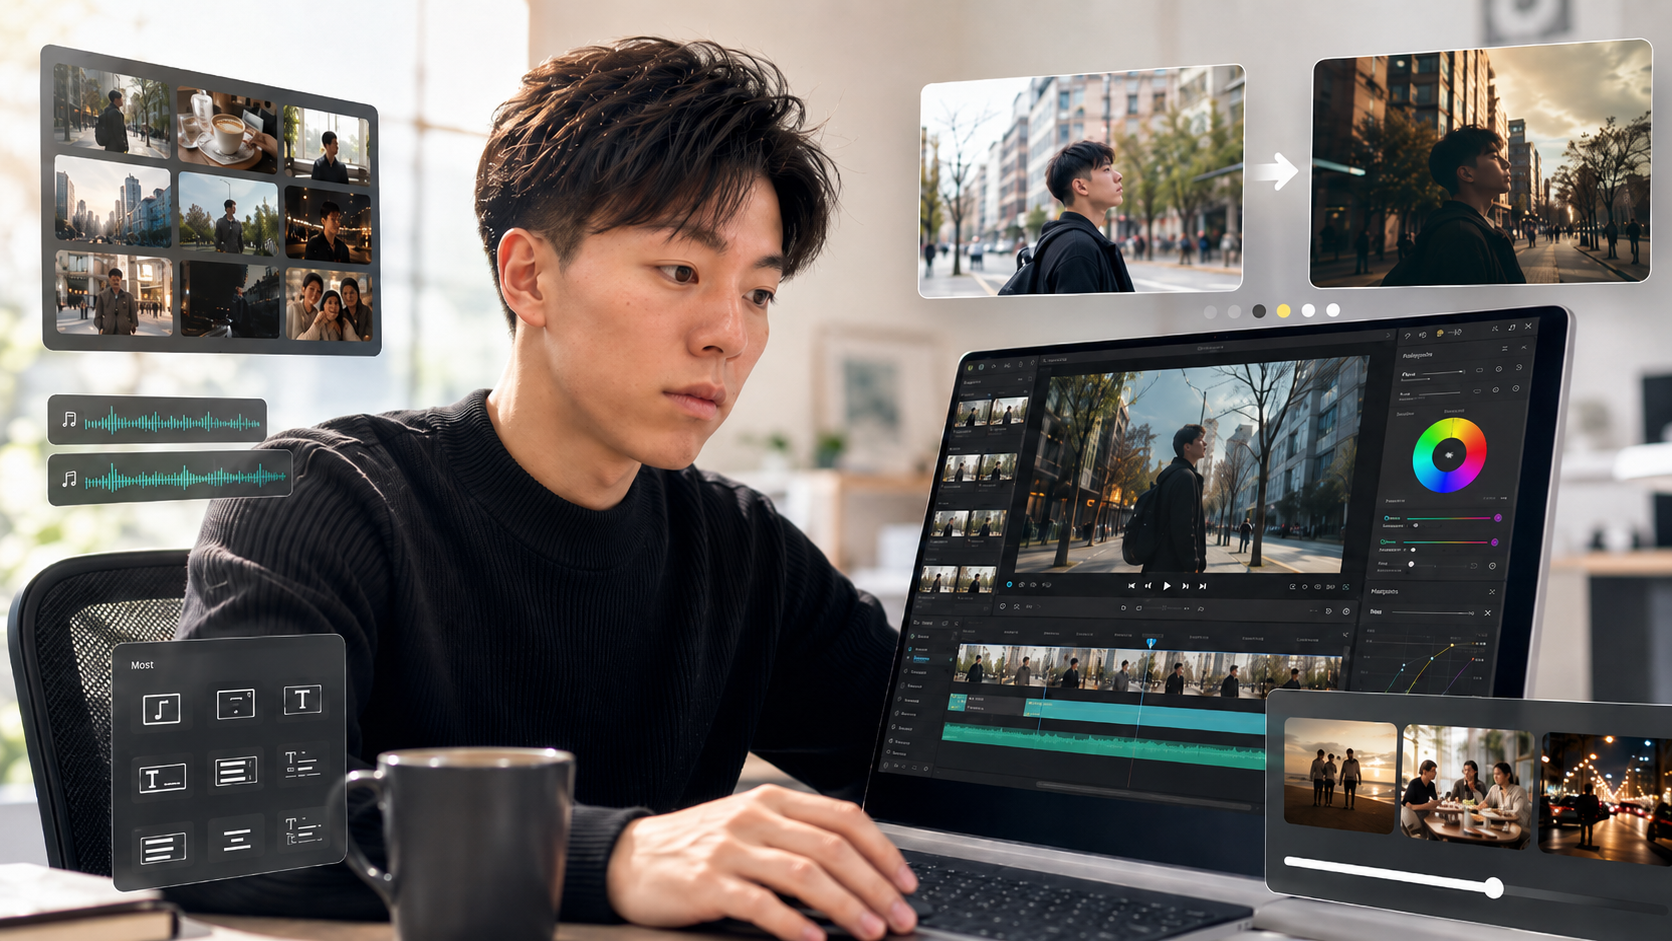
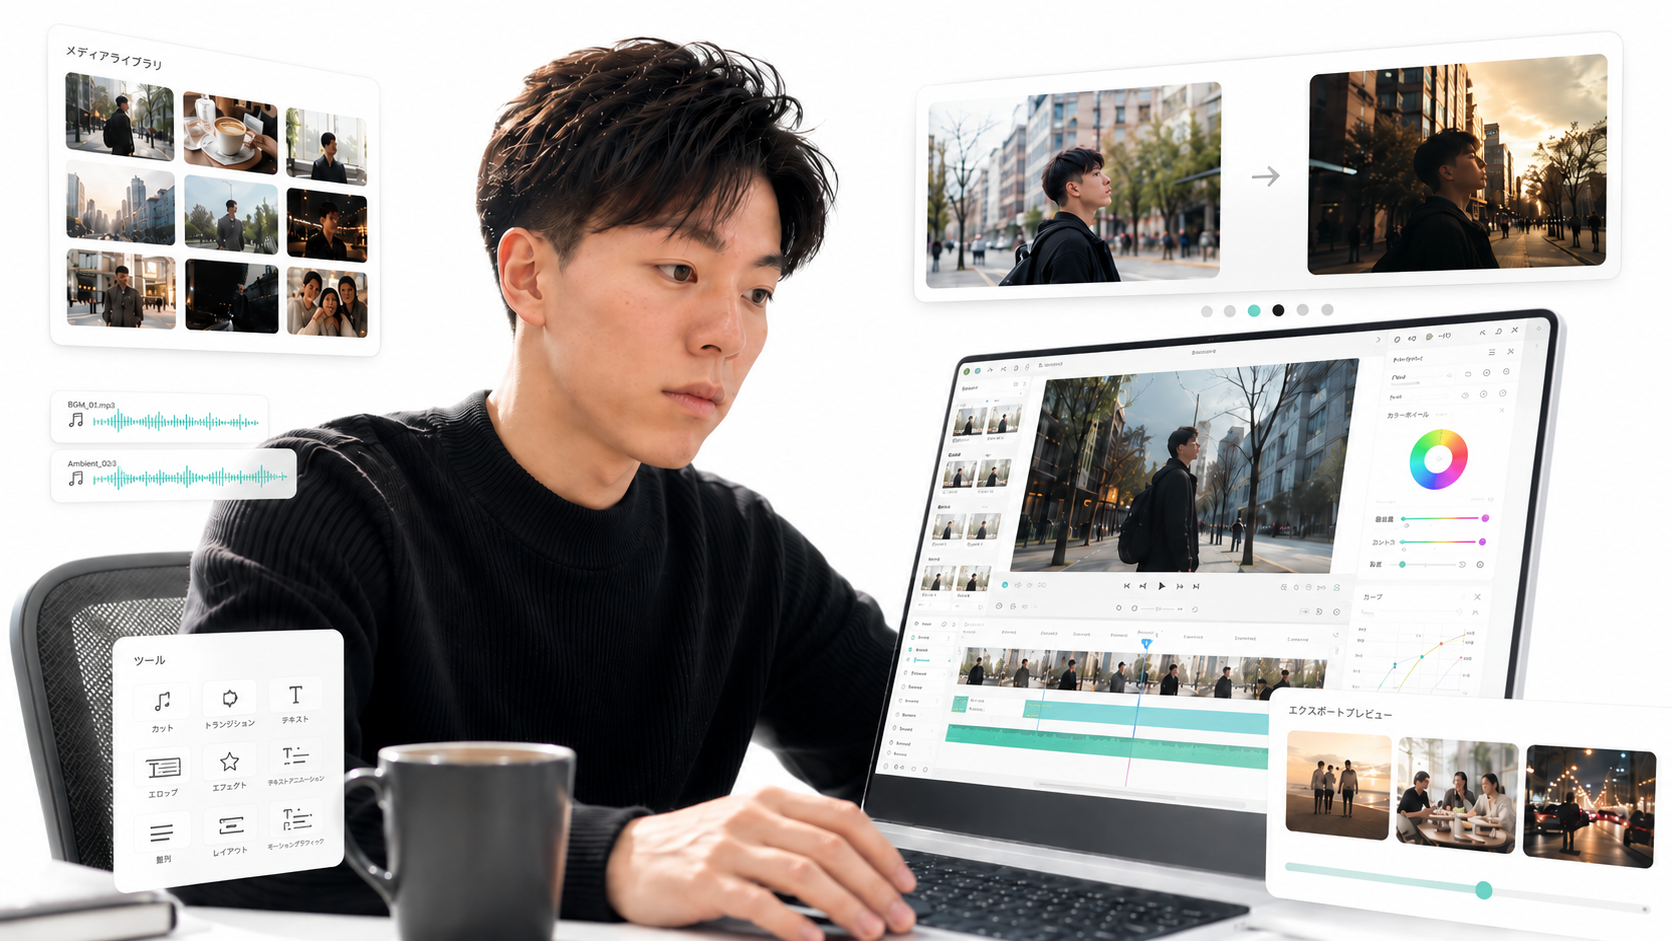
Update layout and styles for use cases section; add new images

diff --git a/index.html b/index.html
@@ -76,40 +76,46 @@
             </div>
         </section>
 
-        <section id="use-cases" class="framed-outer">
+       <section id="use-cases" class="framed-outer">
             <div class="sec-title fade-up">
                 <span class="en en-title">CREATE ANYTHING</span>
                 <h2 class="jp">どんな動画も、あなたの思いのままに。</h2>
             </div>
-            <div class="square-grid-container fade-up">
-                <div class="square-card">
-                    <img src="bp16.png" alt="日常">
-                    <div class="square-content">
+            
+            <div class="bento-grid-container fade-up">
+                
+                <div class="bento-card bento-tall">
+                    <div class="bento-content">
                         <h3>日常の記録</h3>
-                        <p>何気ない日常の動画を、<br class="pc">映画のようなワンシーンに。</p>
+                        <p>何気ない日常の動画を、映画のようなワンシーンに。</p>
                     </div>
+                    <img src="bp16.png" alt="日常" class="bento-img bento-img-bottom">
                 </div>
-                <div class="square-card">
-                    <img src="bp17.png" alt="SNS">
-                    <div class="square-content">
-                        <h3>SNSコンテンツ</h3>
-                        <p>目を引く短い動画を、<br class="pc">より速く、カンタンに。</p>
-                    </div>
-                </div>
-                <div class="square-card">
-                    <img src="bp18.png" alt="快適">
-                    <div class="square-content">
-                        <h3>軽快な編集環境</h3>
-                        <p>重いパソコン作業にさよなら。<br class="pc">サクサク動く快適な操作感を。</p>
-                    </div>
-                </div>
-                <div class="square-card">
-                    <img src="bp19.png" alt="プロ">
-                    <div class="square-content">
+
+                <div class="bento-card bento-wide">
+                    <div class="bento-content bento-content-left">
                         <h3>妥協なきプロ仕様</h3>
-                        <p>プロ向けの本格的な編集も、<br class="pc">これひとつで完結します。</p>
+                        <p>本格的な編集も、<br>これひとつで完結。</p>
                     </div>
+                    <img src="bp19.png" alt="プロ" class="bento-img bento-img-right">
                 </div>
+
+                <div class="bento-card">
+                    <div class="bento-content">
+                        <h3>SNSコンテンツ</h3>
+                        <p>目を引く動画を、<br>より速くカンタンに。</p>
+                    </div>
+                    <img src="bp17.png" alt="SNS" class="bento-img bento-img-bottom">
+                </div>
+
+                <div class="bento-card">
+                    <div class="bento-content">
+                        <h3>軽快な編集環境</h3>
+                        <p>重い作業にさよなら。<br>サクサク動く操作感を。</p>
+                    </div>
+                    <img src="bp18.png" alt="快適" class="bento-img bento-img-bottom">
+                </div>
+
             </div>
         </section>
 
@@ -234,10 +240,10 @@
 
             <div class="marquee-wrapper fade-up">
                 <div class="marquee-track">
-                    <img src="bp3.png" alt="アセット"><img src="bp4.png" alt="アセット"><img src="bp5.png" alt="アセット">
-                    <img src="bp6.png" alt="アセット"><img src="bp1.png" alt="アセット"><img src="bp2.png" alt="アセット">
-                    <img src="bp3.png" alt="アセット"><img src="bp4.png" alt="アセット"><img src="bp5.png" alt="アセット">
-                    <img src="bp6.png" alt="アセット"><img src="bp1.png" alt="アセット"><img src="bp2.png" alt="アセット">
+                    <img src="bp20.png" alt="アセット"><img src="bp21.png" alt="アセット"><img src="bp22.png" alt="アセット">
+                    <img src="bp23.png" alt="アセット"><img src="bp24.png" alt="アセット"><img src="bp25.png" alt="アセット">
+                    <img src="bp20.png" alt="アセット"><img src="bp21.png" alt="アセット"><img src="bp22.png" alt="アセット">
+                    <img src="bp23.png" alt="アセット"><img src="bp24.png" alt="アセット"><img src="bp25.png" alt="アセット">
                 </div>
             </div>
         </section>

diff --git a/style.css b/style.css
@@ -370,62 +370,71 @@ nav a:hover::after {
 }
 
 /* ==========================================================================
-   USE CASES (CREATE ANYTHING)
+   USE CASES (ミニマル・ホワイトレイアウト)
    ========================================================================== */
-.framed-outer {
-    padding-top: 80px;
-    padding-left: 20px;
-    padding-right: 20px;
-    padding-bottom: 20px;
-    box-sizing: border-box;
-}
-
 .square-grid-container {
     display: grid;
-    grid-template-columns: repeat(4, 1fr);
-    gap: 20px;
+    /* ★4列から2列に変更し、1枚を大きく見せる */
+    grid-template-columns: repeat(2, 1fr);
+    /* ★余白（gap）を広げてゆとりを持たせる */
+    gap: 60px;
+    max-width: 1100px;
+    margin: 0 auto;
 }
 
 .square-card {
     position: relative;
-    aspect-ratio: 1/1;
-    overflow: hidden;
-    border-radius: 12px;
+    /* ★四角い枠（aspect-ratio）を外し、高さ自由にする */
+    height: auto;
+    background: transparent; /* 背景は透明に */
+    display: flex;
+    flex-direction: column;
+    align-items: center; /* 中央揃え */
+    overflow: visible; /* 画像の影などが切れないようにする */
 }
 
-.square-card img {
-    width: 100%;
-    height: 100%;
-    object-fit: cover;
-    transition: transform 0.6s ease;
+/* ★画像そのもののスタイリング */
+.use-case-img {
+    width: auto;
+    max-width: 90%; /* 横幅は少し余裕を持たせる */
+    height: auto;
+    max-height: 350px; /* PCで美しいサイズ感に固定 */
+    display: block;
+    margin-bottom: 30px; /* 画像とテキストの距離 */
+    border-radius: 8px; /* 好みで角を少し丸く */
+    transition: transform 0.6s cubic-bezier(0.16, 1, 0.3, 1), box-shadow 0.6s;
+    /* ★白背景に溶け込むよう、影はごく薄く設定 */
+    box-shadow: 0 10px 40px rgba(0, 0, 0, 0.04);
 }
 
-.square-card:hover img {
-    transform: scale(1.05);
+/* ホバーした時のアニメーション（ふわっと浮き上がる） */
+.square-card:hover .use-case-img {
+    transform: translateY(-10px) scale(1.02);
+    box-shadow: 0 20px 60px rgba(0, 82, 204, 0.08); /* 青みを帯びた薄い影 */
 }
 
 .square-content {
-    position: absolute;
-    bottom: 0;
-    left: 0;
+    /* ★ overlaid position (absoluteなど) を解除 */
+    position: static;
     width: 100%;
-    padding: 25px;
-    background: linear-gradient(to top, rgba(0,0,0,0.9), transparent);
-    color: #fff;
-    box-sizing: border-box;
+    padding: 0;
+    background: transparent;
+    text-align: center;
+    color: var(--text-main); /* 文字を黒に戻す */
 }
 
 .square-content h3 {
-    font-size: 1.25rem;
-    margin: 0 0 8px 0;
+    font-size: 1.6rem;
     font-weight: 700;
+    margin-bottom: 12px;
+    color: var(--text-main);
 }
 
 .square-content p {
-    font-size: 0.85rem;
+    font-size: 1rem;
     margin: 0;
-    color: rgba(255,255,255,0.8);
-    line-height: 1.6;
+    color: var(--text-sub);
+    line-height: 1.8;
 }
 
 /* ==========================================================================
@@ -1077,9 +1086,19 @@ footer {
         line-height: 1.6;
     }
     
-    .square-grid-container, .modern-grid {
-        grid-template-columns: 1fr;
+    @media (max-width: 768px) {
+    .square-grid-container {
+        grid-template-columns: 1fr; /* スマホでは縦1列 */
+        gap: 50px;
+        padding: 0 15px;
     }
+    .use-case-img {
+        max-height: 250px; /* スマホでは少し小さく */
+    }
+    .square-content h3 {
+        font-size: 1.4rem;
+    }
+}
     
     /* ダークバナーのスマホ対応 */
     .cta-banner-split {
